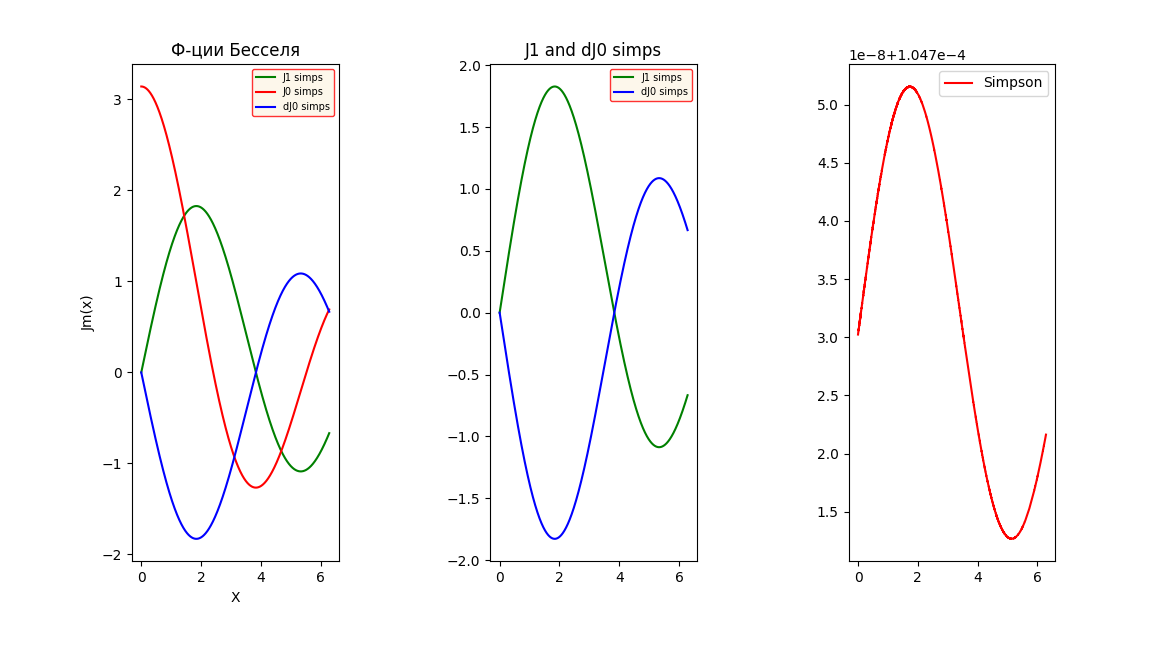
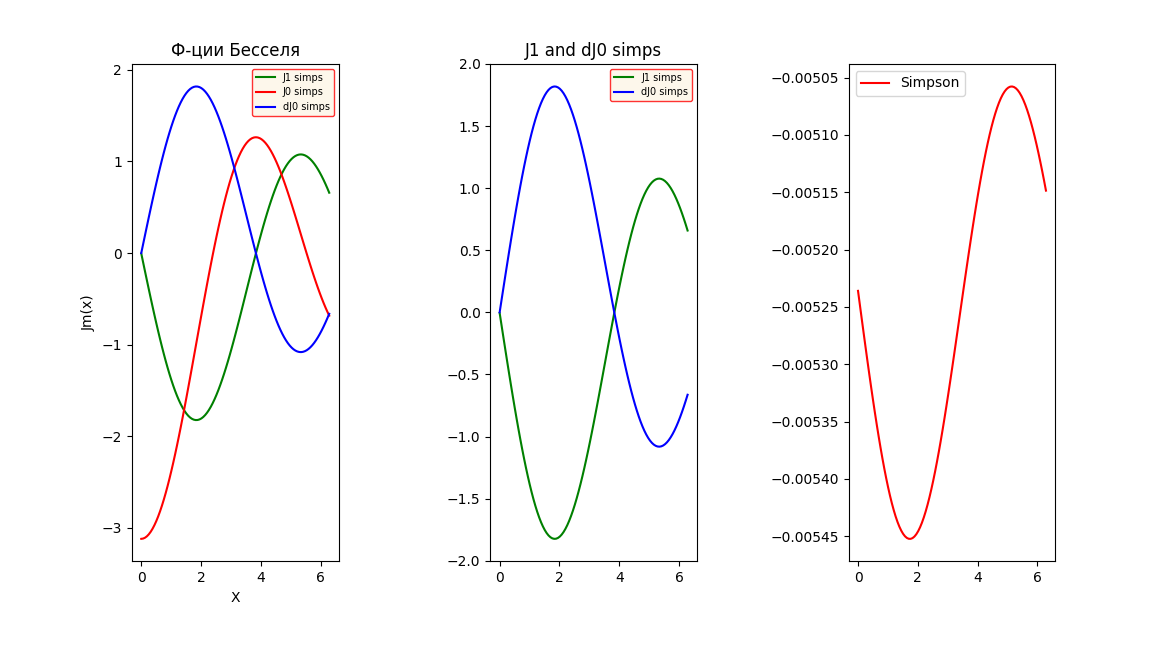
Commit context changes task4

diff --git a/task4.py b/task4.py
@@ -16,6 +16,8 @@ J'_0(x) + J_1(X) = 0
 import numpy as np
 import matplotlib.pyplot as plt
 
+integral: float
+
 
 def J(x, m, t):
     res = np.float64(np.cos(np.float64(m)*np.float64(t) - np.float64(x)*np.sin(np.float64(t))))
@@ -38,7 +40,7 @@ def dJ0trapeze(a, b, N, x, delta):
     return res
 
 
-def simpson_method(a, b, N, x, m):
+def simpson_method(a, b, N, x, m) -> float:
     """
     S[a,b] = (b - a)/6 * [f(a) +4f((a+b)/2) + f(b)]
 
@@ -46,17 +48,17 @@ def simpson_method(a, b, N, x, m):
     :return:
     """
 
-    tarr = np.linspace(np.float64(a), np.float64(b), N)#)2**9)
-    h = tarr[1] - tarr[0]
+    tarr = np.linspace(np.float64(a), np.float64(b), 2 * N)#)2**9)
+    h = (a - b)/(2 * N)
     yarr = [J(x, m, t) for t in tarr]
     S = np.float64(0.)
-    for i in range(len(yarr)):
+    for i in range(1, len(yarr) - 1):
         if i % 2 == 0:
             factor = np.float64(2.)
         else:
             factor = np.float64(4.)
         S += np.float64(factor * yarr[i])
-    S = np.float64((S - yarr[0] - np.float64(3.) * yarr[len(tarr)-1]) * h/np.float64(3.))
+    S = np.float64((S + yarr[0] + yarr[len(tarr)-1]) * h/np.float64(3.))
 
     return S
 
@@ -68,7 +70,7 @@ def trapeze_method(a, b, N, x, m):
     """
 
     tarr = np.linspace(a, b, N)#2**9)
-    h = tarr[1] - tarr[0]
+    h = (b - a) / N
     yarr = [J(x, m, t) for t in tarr]
     S = 0
     for y in yarr:
@@ -79,7 +81,7 @@ def trapeze_method(a, b, N, x, m):
 
 
 def run():
-    N = 1000
+    N = 100
     a = 0
     b = np.pi
     points = np.linspace(a, b, N)
